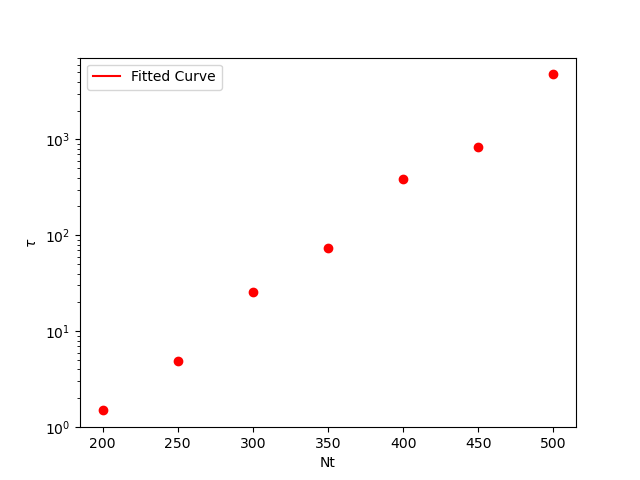
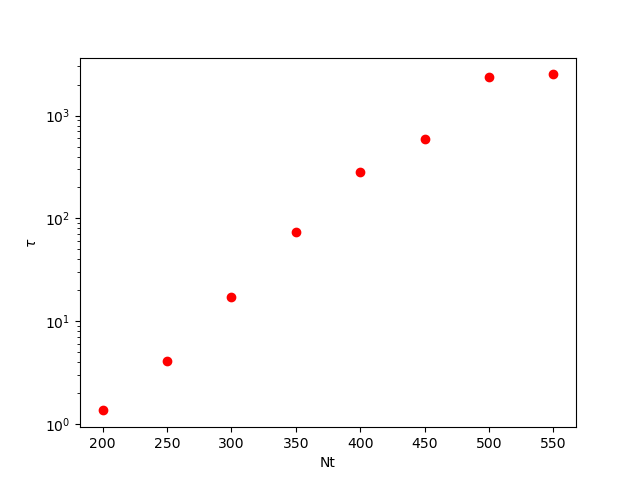
values

diff --git a/pi_mc/bootstrap.py b/pi_mc/bootstrap.py
@@ -44,7 +44,7 @@ sigma=[]
 sigma2_naive=[]
 # mk("Graphs_tau")
 x = -1 # freeze
-for Nt in range(200,550,50):
+for Nt in range(200,600,50):
     q_arr = (np.loadtxt(f"Results/Local_MonteCarlo/beta2_Nt_550_delta=0.5/" \
         f"Q_Nt={Nt}_beta=2_eta={(Beta/Nt):.5f}_delta=0.5.txt"))
         # _delta={np.sqrt(Beta/Nt_arr[Nt]):.5f}.txt"))
@@ -67,17 +67,19 @@ np.savetxt("tau.txt", tau)
 tau2 = np.ndarray.flatten(tau)
 print(tau)
 
-xa = np.arange(200,550,50)
-popt, pcov = curve_fit(expo, xa, tau2, p0=(0.07,0.029))
-a, ta = popt 
-print(a)
-print(ta)
+# xa = np.arange(200,500,50)
+# popt, pcov = curve_fit(expo, xa, tau2, p0=(0.07,0.029))
+# a, ta = popt 
+# print(a)
+# print(ta)
 print('lungo', N)
+print(len(tau))
+print(len(Nt_arr))
 plt.figure()
-plt.plot(xa, expo(xa, *popt), 'r-', label="Fitted Curve")
-plt.legend()
-plt.scatter(Nt_arr[:x], tau, c='red')
-plt.xticks(Nt_arr[:x])
+# plt.plot(xa, expo(xa, *popt), 'r-', label="Fitted Curve")
+# plt.legend()
+plt.scatter(Nt_arr[:-2], tau, c='red')
+plt.xticks(Nt_arr[:-2])
 plt.xlabel("Nt")
 plt.ylabel(rf"$\tau$")
 plt.yscale("log")

diff --git a/pi_mc/Model/constants.py b/pi_mc/Model/constants.py
@@ -13,6 +13,6 @@ PATHS=1000000
 TERM=50000
 
 # bootstrap parameters
-N_BINS=2
+N_BINS=10
 BIN_INIT=1010
 BIN_ARRAY=np.array([BIN_INIT*i for i in range(1, N_BINS)])
